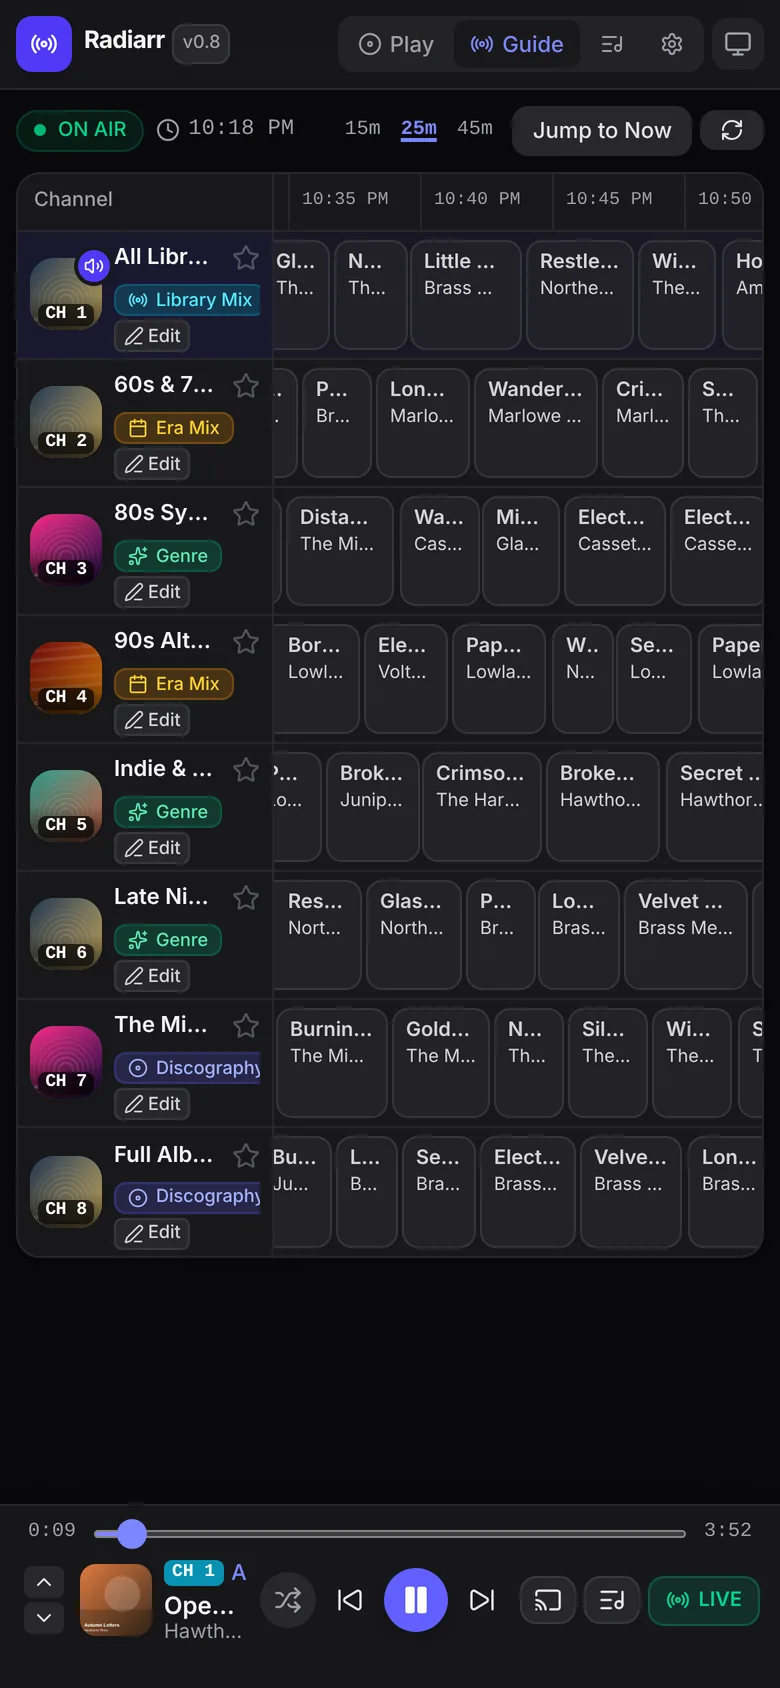
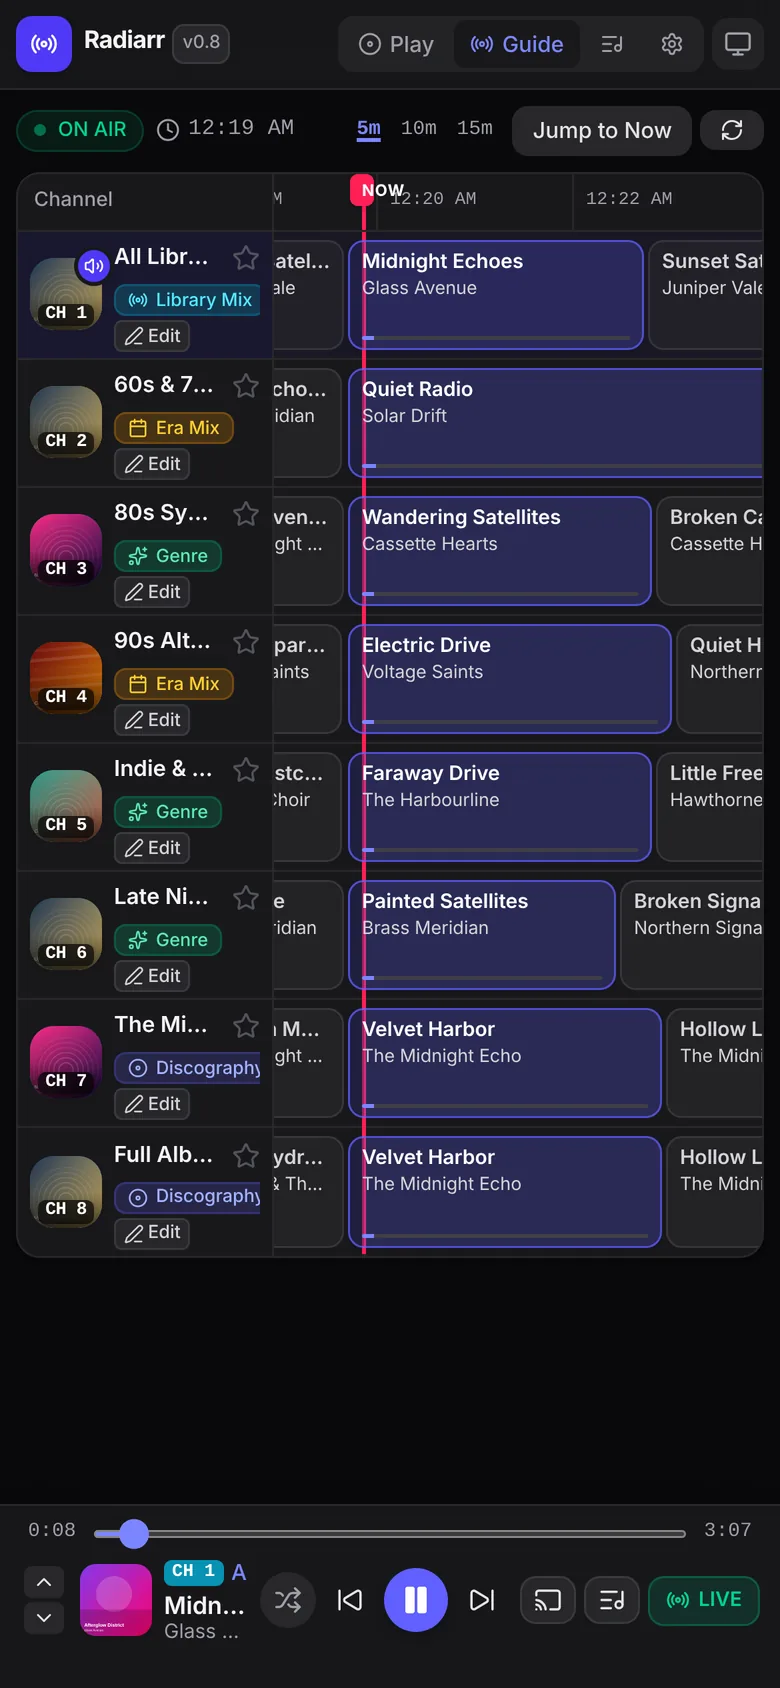
Guide: phone zoom levels of 5, 10 and 15 minutes, like the iOS app
Phone-sized timelines now offer 5m (default), 10m and 15m, saved
separately from the desktop 15m/25m/45m choice, so song titles are
readable. Ruler ticks every 2 minutes at 5m. The guide now waits for
its real width before scrolling to Now. Settings shows the phone
choices on phones. Website phone screenshot refreshed.

diff --git a/src/client/components/GuideView.tsx b/src/client/components/GuideView.tsx
@@ -17,6 +17,7 @@ import {
   formatBroadcastWallTime,
   useAppearance,
   type GuideVisibleMinutesPreference,
+  type GuideVisibleMinutesMobilePreference,
 } from '../hooks/useAppearance.ts';
 import { ChannelBadge, StationCategoryPill } from './ChannelBadge.tsx';
 
@@ -45,6 +46,16 @@ function isAlbumOrArtistChannel(station: StationWithStats): boolean {
   return hasArtists || hasAlbums || station.playMode === 'album_shuffle';
 }
 
+/** Timelines narrower than this (phones) use the phone zoom levels. */
+const PHONE_TIMELINE_MAX_PX = 560;
+const PHONE_ZOOM_OPTIONS = [5, 10, 15] as const;
+const DESKTOP_ZOOM_OPTIONS = [15, 25, 45] as const;
+
+function pixelsPerSecondFor(viewportWidthPx: number, minutes: number, isPhone: boolean): number {
+  const raw = viewportWidthPx / (minutes * 60);
+  return isPhone ? Math.max(0.15, Math.min(3, raw)) : Math.max(0.22, Math.min(1.15, raw));
+}
+
 export function GuideView({
   epg,
   loading,
@@ -65,6 +76,7 @@ export function GuideView({
   const isSyncingScrollRef = useRef<boolean>(false);
   const didInitialScrollRef = useRef<boolean>(false);
   const [viewportWidthPx, setViewportWidthPx] = useState<number>(750);
+  const [widthMeasured, setWidthMeasured] = useState<boolean>(false);
   const [scrollLeftPx, setScrollLeftPx] = useState<number>(0);
 
   // Measure the timeline viewport width so the configured visible span fits comfortably on both mobile & desktop
@@ -75,6 +87,7 @@ export function GuideView({
     const updateWidth = () => {
       if (el.clientWidth > 0) {
         setViewportWidthPx(el.clientWidth);
+        setWidthMeasured(true);
       }
       setScrollLeftPx(el.scrollLeft);
       if (
@@ -95,12 +108,19 @@ export function GuideView({
     };
   }, []);
 
-  // Compute dynamic pixels-per-second based on appearance.guideVisibleMinutes (15m / 25m / 45m)
-  const pixelsPerSecond = useMemo(() => {
-    const targetMinutes = appearance.guideVisibleMinutes || 25;
-    const raw = viewportWidthPx / (targetMinutes * 60);
-    return Math.max(0.22, Math.min(1.15, raw));
-  }, [viewportWidthPx, appearance.guideVisibleMinutes]);
+  // Phone-sized timelines get their own zoom levels (5m / 10m / 15m, like the iOS app),
+  // so song blocks are wide enough to read. Wider screens keep 15m / 25m / 45m.
+  const isPhoneTimeline = viewportWidthPx < PHONE_TIMELINE_MAX_PX;
+  const zoomOptions: readonly number[] = isPhoneTimeline ? PHONE_ZOOM_OPTIONS : DESKTOP_ZOOM_OPTIONS;
+  const visibleMinutes = isPhoneTimeline
+    ? appearance.guideVisibleMinutesMobile || 5
+    : appearance.guideVisibleMinutes || 25;
+
+  // Compute dynamic pixels-per-second for the visible span
+  const pixelsPerSecond = useMemo(
+    () => pixelsPerSecondFor(viewportWidthPx, visibleMinutes, isPhoneTimeline),
+    [viewportWidthPx, visibleMinutes, isPhoneTimeline]
+  );
 
   // Row height classes based on appearance.guideDensity (~20% tighter on mobile)
   const rowHeightClass =
@@ -173,11 +193,15 @@ export function GuideView({
     }
   };
 
-  const handleZoomChange = (mins: GuideVisibleMinutesPreference) => {
-    updateAppearance({ guideVisibleMinutes: mins });
+  const handleZoomChange = (mins: number) => {
+    if (isPhoneTimeline) {
+      updateAppearance({ guideVisibleMinutesMobile: mins as GuideVisibleMinutesMobilePreference });
+    } else {
+      updateAppearance({ guideVisibleMinutes: mins as GuideVisibleMinutesPreference });
+    }
     requestAnimationFrame(() => {
       if (timelineScrollRef.current) {
-        const newPPS = viewportWidthPx / (mins * 60);
+        const newPPS = pixelsPerSecondFor(viewportWidthPx, mins, isPhoneTimeline);
         const newNowLeft = Math.round(
           ((nowServerMs - windowStartMs) / 1000) * newPPS
         );
@@ -194,7 +218,8 @@ export function GuideView({
 
   // Position the "Now" marker ~15% from the left edge of the viewport on first load
   useEffect(() => {
-    if (!epg || didInitialScrollRef.current || !timelineScrollRef.current) return;
+    // Wait for the real width, so the zoom (and the Now position) is right before scrolling.
+    if (!epg || !widthMeasured || didInitialScrollRef.current || !timelineScrollRef.current) return;
     const container = timelineScrollRef.current;
     const leadInPx = Math.round(container.clientWidth * 0.15);
     const targetScroll = Math.max(0, nowLeftPx - leadInPx);
@@ -204,11 +229,12 @@ export function GuideView({
     }
     setScrollLeftPx(container.scrollLeft);
     didInitialScrollRef.current = true;
-  }, [epg, nowLeftPx]);
+  }, [epg, nowLeftPx, widthMeasured]);
 
-  // Generate 5-minute ruler ticks across the timeline window
+  // Ruler ticks every 5 minutes (every 2 minutes on the closest phone zoom)
+  const rulerStepMinutes = isPhoneTimeline && visibleMinutes <= 5 ? 2 : 5;
   const rulerTicks = useMemo(() => {
-    const stepMs = 5 * 60 * 1000;
+    const stepMs = rulerStepMinutes * 60 * 1000;
     const firstTick = Math.ceil(windowStartMs / stepMs) * stepMs;
     const ticks: Array<{ ms: number; leftPx: number; label: string }> = [];
     for (let t = firstTick; t <= windowEndMs; t += stepMs) {
@@ -220,7 +246,7 @@ export function GuideView({
       });
     }
     return ticks;
-  }, [windowStartMs, windowEndMs, pixelsPerSecond, appearance.timeFormat]);
+  }, [windowStartMs, windowEndMs, pixelsPerSecond, appearance.timeFormat, rulerStepMinutes]);
 
   if (loading && !epg) {
     return (
@@ -264,9 +290,8 @@ export function GuideView({
               <span className="hidden xs:inline text-zinc-400 dark:text-zinc-500 text-[10px] font-medium mr-0.5">
                 Zoom:
               </span>
-              {([15, 25, 45] as const).map((mins) => {
-                const isSelected =
-                  (appearance.guideVisibleMinutes || 25) === mins;
+              {zoomOptions.map((mins) => {
+                const isSelected = visibleMinutes === mins;
                 return (
                   <button
                     key={mins}

diff --git a/src/client/components/SettingsView.tsx b/src/client/components/SettingsView.tsx
@@ -95,6 +95,8 @@ export function SettingsView({
 }: SettingsViewProps) {
   const [activeSubTab, setActiveSubTab] = useState<SettingsSubTab>('sources');
   const { appearance, updateAppearance, resetAppearance } = useAppearance();
+  // Phones use the guide's phone zoom levels (5 / 10 / 15 minutes), so offer those here.
+  const isPhoneScreen = typeof window !== 'undefined' && window.innerWidth < 640;
   const { theme, setTheme } = useTheme();
 
   const defaultStation =
@@ -936,21 +938,28 @@ export function SettingsView({
                   Visible Timeline Window
                 </span>
                 <div className="grid grid-cols-3 gap-1.5 p-1 rounded-xl bg-zinc-100 dark:bg-zinc-950 border border-zinc-200/80 dark:border-zinc-800">
-                  {(
-                    [
-                      { mins: 15, label: '15m (Zoomed)' },
-                      { mins: 25, label: '25m (Default)' },
-                      { mins: 45, label: '45m (Wide)' },
-                    ] as const
+                  {(isPhoneScreen
+                    ? ([
+                        { mins: 5, label: '5m (Default)' },
+                        { mins: 10, label: '10m' },
+                        { mins: 15, label: '15m (Wide)' },
+                      ] as const)
+                    : ([
+                        { mins: 15, label: '15m (Zoomed)' },
+                        { mins: 25, label: '25m (Default)' },
+                        { mins: 45, label: '45m (Wide)' },
+                      ] as const)
                   ).map(({ mins, label }) => (
                     <button
                       key={mins}
                       type="button"
                       onClick={() =>
-                        updateAppearance({ guideVisibleMinutes: mins })
+                        isPhoneScreen
+                          ? updateAppearance({ guideVisibleMinutesMobile: mins as 5 | 10 | 15 })
+                          : updateAppearance({ guideVisibleMinutes: mins as 15 | 25 | 45 })
                       }
                       className={`py-2 px-2 rounded-lg text-xs font-medium font-mono tabular-nums transition cursor-pointer ${
-                        appearance.guideVisibleMinutes === mins
+                        (isPhoneScreen ? appearance.guideVisibleMinutesMobile : appearance.guideVisibleMinutes) === mins
                           ? 'bg-white dark:bg-zinc-800 text-indigo-600 dark:text-indigo-400 shadow-xs'
                           : 'text-zinc-600 dark:text-zinc-400 hover:text-zinc-900 dark:hover:text-zinc-200'
                       }`}

diff --git a/src/client/hooks/useAppearance.ts b/src/client/hooks/useAppearance.ts
@@ -3,6 +3,8 @@ import { useCallback, useEffect, useState } from 'react';
 export type TimeFormatPreference = '12h' | '24h';
 export type GuideDensityPreference = 'compact' | 'standard' | 'comfortable';
 export type GuideVisibleMinutesPreference = 15 | 25 | 45;
+/** Phone-sized guide zoom (matches the iOS app): 5, 10 or 15 minutes across the screen. */
+export type GuideVisibleMinutesMobilePreference = 5 | 10 | 15;
 export type NowPlayingBackdropPreference =
   | 'artwork_blur'
   | 'color_glow'
@@ -23,6 +25,7 @@ export interface AppearancePreferences {
   timeFormat: TimeFormatPreference;
   guideDensity: GuideDensityPreference;
   guideVisibleMinutes: GuideVisibleMinutesPreference;
+  guideVisibleMinutesMobile: GuideVisibleMinutesMobilePreference;
   guideShowRuleSummary: boolean;
   nowPlayingBackdrop: NowPlayingBackdropPreference;
   nowPlayingSleeveShape: NowPlayingSleeveShapePreference;
@@ -46,6 +49,7 @@ export const DEFAULT_APPEARANCE_PREFERENCES: AppearancePreferences = {
   timeFormat: '12h',
   guideDensity: 'standard',
   guideVisibleMinutes: 25,
+  guideVisibleMinutesMobile: 5,
   guideShowRuleSummary: true,
   nowPlayingBackdrop: 'artwork_blur',
   nowPlayingSleeveShape: 'rounded',
@@ -101,6 +105,12 @@ export function getStoredAppearancePreferences(): AppearancePreferences {
         parsed.guideVisibleMinutes === 45
           ? parsed.guideVisibleMinutes
           : DEFAULT_APPEARANCE_PREFERENCES.guideVisibleMinutes,
+      guideVisibleMinutesMobile:
+        parsed.guideVisibleMinutesMobile === 5 ||
+        parsed.guideVisibleMinutesMobile === 10 ||
+        parsed.guideVisibleMinutesMobile === 15
+          ? parsed.guideVisibleMinutesMobile
+          : DEFAULT_APPEARANCE_PREFERENCES.guideVisibleMinutesMobile,
       guideShowRuleSummary:
         typeof parsed.guideShowRuleSummary === 'boolean'
           ? parsed.guideShowRuleSummary
